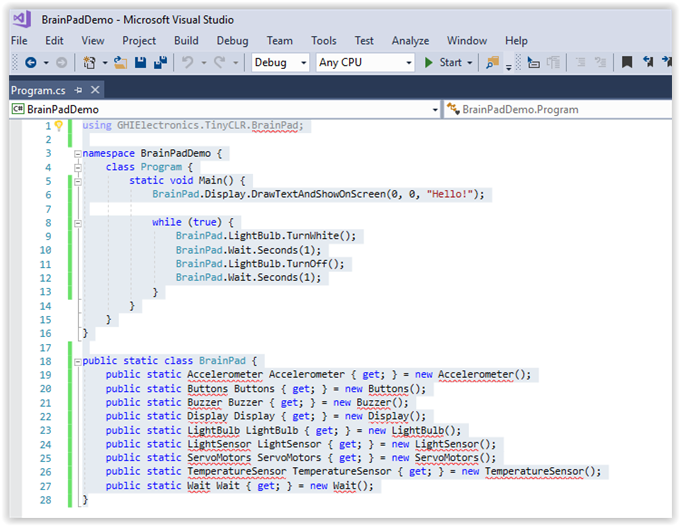
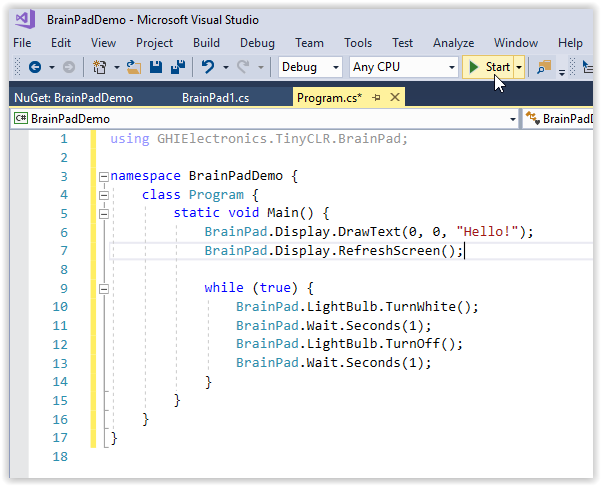
Made changes system setup, intro pages for VB and C#, and servo-motors page.

diff --git a/go-beyond/csharp/intro.md b/go-beyond/csharp/intro.md
@@ -4,6 +4,15 @@ It is not a secret that C and C++ are the most popular programming languages amo
 
 C# is the modern cousin of the C and C++ family. Its syntax is very close to JAVA, another very popular programming language.
 
+## C# Introduction Overview
+The instructions on this page describe how to run your first C# program (a "hello world" program) on the BrainPad. The steps are as follows:
+
+  * [Start a new project](#start-a-new-project).
+  * [Manage the NuGet packages](#manage-the-nuget-packages).
+  * [Add the BrainPad helper code](#add-the-brainpad-helper-code).
+  * [Add the sample program](#add-the-sample-program).
+  * [Deploy the program](#deploy-the-program)
+
 ## Before you start
 You should have already installed Visual Studio on your computer as well as the TinyCLR extension. If not, please start with [System Setup](../system-setup.md) for instructions on how to do so.
 
@@ -36,49 +45,12 @@ Once created, you'll be presented with a `Program.cs` tab.
 
 ![First C# Project](images/introduction/first-project.png)
 
-### Add the Code
-
-In the `Program.cs` tab we will enter short sample program (our "Hello World" code). Cut and paste the following code into the `Program.cs` window.
-```
-using GHIElectronics.TinyCLR.BrainPad;
-
-namespace BrainPadDemo {
-    class Program {
-        static void Main() {
-            BrainPad.Display.DrawTextAndShowOnScreen(0, 0, "Hello!");
-
-            while (true) {
-                BrainPad.LightBulb.TurnWhite();
-                BrainPad.Wait.Seconds(1);
-                BrainPad.LightBulb.TurnOff();
-                BrainPad.Wait.Seconds(1);
-            }
-        }
-    }
-}
-
-public static class BrainPad {
-    public static Accelerometer Accelerometer { get; } = new Accelerometer();
-    public static Buttons Buttons { get; } = new Buttons();
-    public static Buzzer Buzzer { get; } = new Buzzer();
-    public static Display Display { get; } = new Display();
-    public static LightBulb LightBulb { get; } = new LightBulb();
-    public static LightSensor LightSensor { get; } = new LightSensor();
-    public static ServoMotors ServoMotors { get; } = new ServoMotors();
-    public static TemperatureSensor TemperatureSensor { get; } = new TemperatureSensor();
-    public static Wait Wait { get; } = new Wait();
-}
-```
-
-Your `Program.cs` window should look like this:
-![Pasted Code](images/introduction/pasted-code.png)
-
 ### Manage the NuGet Packages
 C# source files are listed in the `Solution Explorer` window. If the `Solution Explorer` window is not visible, click on `View > Solution Explorer` to open it.
 
 ![Solution Explorer](images/introduction/solution-explorer.png)
 
-The squiggly red lines under items in the `Solution Explorer` window and `Program.cs` window indicate errors. In this case the errors are caused by missing Nuget packages. Let's tell Visual Studio to include the Nuget packages and fix that now.
+The squiggly red lines under items in the `Solution Explorer` window indicate errors. In this case the errors are caused by missing Nuget packages. Let's tell Visual Studio to include the Nuget packages and fix that now.
 
 If you right click on the project name in the Solution Explorer window a drop down menu will appear. Select `Manage NuGet Packages...` from the menu.
 
@@ -90,11 +62,11 @@ Now you should see the installed TinyCLR NuGet library (GHIElectronics.TinyCLR.C
 
 Click on `Browse`. You should see a list of available Nuget packages in your local feed.
 
-![Browse Nuget Packages](images/introduction/browse-nuget-packages.png)
+![Browse Nuget Packages](../vb/images/introduction/browse-nuget-packages.jpg)
 
 Click on the `GHIElectronics.TinyCLR.BrainPad` package and then click on the `Install` button.
 
-![Click Install Button](images/introduction/click-install-button.png)
+![Click Install Button](../vb/images/introduction/click-install-button.png)
 
 Installing the BrainPad Nuget package will automatically install the `GHIElectronics.TinyCLR.Devices` and `GHIElectronics.TinyCLR.Pins` packages as well. Click on `OK`.
 
@@ -106,17 +78,47 @@ Now accept the license agreement to install the packages.
 
 Close the `NuGet...` tab to get back to your `Program.cs` window. The red squiggles should now be gone.
 
-![No Red Squiggles](images/introduction/no-red-squiggles.png)
+### Add the BrainPad Helper Code
+
+The BrainPad Helper code provides needed definitions for some BrainPad objects. To add this file to your program, select `Add New Item...` in the `Project` menu. Then in the `Add New Item` dialog box click on `BrainPad Helper` and then click on the `Add` button. You will see a tab labeled `BrainPad1.cs` with contents as shown below.
+
+![BrainPad Helper](images/introduction/brainpad-helper.jpg)
+
+### Add the Sample Program
+
+In the `Program.cs` tab we will enter short sample program (our "Hello World" code). Cut and paste the following code into the `Program.cs` window.
+```
+using GHIElectronics.TinyCLR.BrainPad;
+
+namespace BrainPadDemo {
+    class Program {
+        static void Main() {
+            BrainPad.Display.DrawText(0, 0, "Hello!");
+            BrainPad.Display.RefreshScreen();
+
+            while (true) {
+                BrainPad.LightBulb.TurnWhite();
+                BrainPad.Wait.Seconds(1);
+                BrainPad.LightBulb.TurnOff();
+                BrainPad.Wait.Seconds(1);
+            }
+        }
+    }
+}
+```
+
+Your `Program.cs` window should look like this:
+![Pasted Code](images/introduction/pasted-code.png)
 
 ### Deploy the Program
 Make sure your BrainPad is plugged into the computer's USB port. Now hit the start button as shown in the above image (or hit the `F5` key). If you've done everything correctly the program will compile and deploy to your device. The message "Hello World!" should appear on the BrainPad display, and the light bulb should start blinking.
 
 Congratulations! You're on your way to learning advanced programming on the BrainPad!
 
-What happened exactly? Our application began by running the `BrainPad.Display.DrawTextAndShowOnScreen(0, 0, "Hello!")` line to instruct the display to show the text "Hello!"
+What happened exactly? Our application began by running the `BrainPad.Display.DrawText(0, 0, "Hello!")` and `BrainPad.Display.RefreshScreen()` lines to instruct the display to show the text "Hello!"
 
-The line `BrainPad.Display.DrawTextAndShowOnScreen(0, 0, "Hello!")` is known as a function call. The name of the function is "DrawTextAndShowOnScreen()." This function is part of the "Display" object, which is part of the "BrainPad" object.
+The line `BrainPad.Display.DrawText(0, 0, "Hello!")` is known as a function call. The name of the function is "DrawText()." This function is part of the "Display" object, which is part of the "BrainPad" object.
 
 The items listed in parenthesis (0, 0, "Hello!") are called the arguments of the function. In this case the first zero tells the BrainPad to display the text at the left side of the BrainPad display. If this number is increased the text will appear farther to the right on the screen. The second zero tells the BrainPad to print the text at the top of the display. If this number is increased the text will be printed lower on the screen. The third arugument, "Hello!," tells the BrainPad what text to display on the screen.
 
-After `BrainPadSetup()` is finished, the `While True` loop starts running. Code placed inside this while loop is executed in an infinite loop. This is why the LED keeps blinking and never stops.
+After the display lines are finished, the `While True` loop starts running. Code placed inside this while loop is executed in an infinite loop. This is why the LED keeps blinking and never stops.

diff --git a/go-beyond/vb/intro.md b/go-beyond/vb/intro.md
@@ -6,9 +6,9 @@ Visual Basic is a very popular Microsoft .NET programming language. While being 
 The instructions on this page describe how to run your first Visual Basic program (a "hello world" program) on the BrainPad. The steps are as follows:
 
   * [Start a new project](#start-a-new-project).
-  * [Add the BrainPad helper code](#add-the-brainpad-helper-code).
   * [Manage the NuGet packages](#manage-the-nuget-packages).
-  * [Add the code](#add-the-code).
+  * [Add the BrainPad helper code](#add-the-brainpad-helper-code).
+  * [Add the sample program](#add-the-sample-program).
   * [Deploy the program](#deploy-the-program)
 
 ## Before you start
@@ -42,18 +42,12 @@ Once created, you'll be presented with a `Module1.vb` tab.
 
 ![First Project](images/introduction/first-project.png)
 
-### Add the BrainPad Helper Code
-
-The BrainPad Helper code provides needed definitions for some BrainPad objects. To add this file to your program, select `Add New Item...` in the `Project` menu. Then in the `Add New Item` dialog box click on `BrainPad Helper` and then click on the `Add` button. You will see a tab labeled `BrainPad1.vb` with contents as shown below.
-
-![BrainPad Helper](images/introduction/brainpad-helper.jpg)
-
 ### Manage the NuGet Packages
 Visual Basic source files are listed in the `Solution Explorer` window. If the `Solution Explorer` window is not visible, click on `View > Solution Explorer` to open it.
 
 ![Solution Explorer](images/introduction/solution-explorer.png)
 
-The squiggly red lines under items in the `Solution Explorer` and `BrainPad1.vb` windows indicate errors. In this case the errors are caused by missing Nuget packages. Let's tell Visual Studio to include the Nuget packages and fix that now.
+The squiggly red lines under items in the `Solution Explorer` window indicate errors. In this case the errors are caused by missing Nuget packages. Let's tell Visual Studio to include the Nuget packages and fix that now.
 
 If you right click on the project name in the Solution Explorer window a drop down menu will appear. Select `Manage NuGet Packages...` from the menu.
 
@@ -81,7 +75,13 @@ Now accept the license agreement to install the packages.
 
 Close the `NuGet...` tab to get back to your `BrainPad1.vb` window. The red squiggles should now be gone.
 
-### Add the Code  
+### Add the BrainPad Helper Code
+
+The BrainPad Helper code provides needed definitions for some BrainPad objects. To add this file to your program, select `Add New Item...` in the `Project` menu. Then in the `Add New Item` dialog box click on `BrainPad Helper` and then click on the `Add` button. You will see a tab labeled `BrainPad1.vb` with contents as shown below.
+
+![BrainPad Helper](images/introduction/brainpad-helper.jpg)
+
+### Add the Sample Program  
 In the `Module1.vb` tab we will enter short sample program (our "Hello World" code). Cut and paste the following code into the `Module1.vb` window.
 
 ```
@@ -105,6 +105,8 @@ End Module
 Your `Module1.vb` window should look like this:
 ![Pasted Code](images/introduction/pasted-code.png)
 
+
+
 ### Deploy the Program
 Make sure your BrainPad is plugged into the computer's USB port. Now hit the start button as shown in the above image (or hit the `F5` key). If you've done everything correctly the program will compile and deploy to your device. The message "Hello World!" should appear on the BrainPad display, and the light bulb should start blinking.
 
@@ -116,4 +118,4 @@ The line `BrainPad.Display.DrawText(0, 0, "Hello!")` is known as a function call
 
 The items listed in parenthesis (0, 0, "Hello!") are called the arguments of the function. In this case the first zero tells the BrainPad to display the text at the left side of the BrainPad display. If this number is increased the text will appear farther to the right on the screen. The second zero tells the BrainPad to print the text at the top of the display. If this number is increased the text will be printed lower on the screen. The third arugument, "Hello!," tells the BrainPad what text to display on the screen.
 
-After `BrainPadSetup()` is finished, the `While True` loop starts running. Code placed inside this while loop is executed in an infinite loop. This is why the LED keeps blinking and never stops.
+After display lines are finished, the `While True` loop starts running. Code placed inside this while loop is executed in an infinite loop. This is why the LED keeps blinking and never stops.

diff --git a/go-beyond/components/servo-motors.md b/go-beyond/components/servo-motors.md
@@ -4,12 +4,24 @@ The BrainPad has built in support for two servo motors. These can be either cont
 
 Positional servo motors only accept position commands. Positional servo motors only rotate part way through a revolution, usually turning up to half of a revolution (180 degrees). While you can tell a servo motor to go to a specific position, you have no control over how fast it will get there. The positional servo motor will move to a given position as quickly as possible, but it's speed depends on how much load is put on the motor.
 
-* `BrainPad.ServoMotors.ConfigureAsContinuous(bool inverted)` 
+* `BrainPad.ServoMotors.ServoOne.ConfigureAsContinuous(bool inverted)`
 
-* `BrainPad.ServoMotors.ConfigureAsPositional(bool inverted)`
+* `BrainPad.ServoMotors.ServoTwo.ConfigureAsContinuous(bool inverted)` 
 
-* `BrainPad.ServoMotors.ConfigurePulseParameters(double minimumPulseWidth, double maximumPulseWidth)` 
+* `BrainPad.ServoMotors.ServoOne.ConfigureAsPositional(bool inverted)`
 
-* `BrainPad.ServoMotors.Set(double value)`
+* `BrainPad.ServoMotors.ServoTwo.ConfigureAsPositional(bool inverted)`
 
-* `BrainPad.ServoMotors.Stop()`
+* `BrainPad.ServoMotors.ServoOne.ConfigurePulseParameters(double minimumPulseWidth, double maximumPulseWidth)`
+
+* `BrainPad.ServoMotors.ServoTwo.ConfigurePulseParameters(double minimumPulseWidth, double maximumPulseWidth)`
+
+* `BrainPad.ServoMotors.ServoOne.Set(double value)`
+
+* `BrainPad.ServoMotors.ServoTwo.Set(double value)`
+
+* `BrainPad.ServoMotors.ServoOne.Stop()`
+
+* `BrainPad.ServoMotors.ServoTwo.Stop()`
+
+* `BrainPad.ServoMotors.Servo{*One* or *Two*}.Stop()`

diff --git a/go-beyond/system-setup.md b/go-beyond/system-setup.md
@@ -37,7 +37,10 @@ After installation is complete, click on the `Launch` button. You will be asked 
 
 If Visual Studio is open, close it before continuing with the TinyCLR installation.
 
-Download the [TinyCLR Visual Studio Project System](http://files.ghielectronics.com/downloads/TinyCLR/Extensions/TinyCLR%20OS%20Project%20System%20v0.10.0.vsix). After the download is complete, click on the up arrow next to the download name at the bottom of the screen as shown below.
+Download the [TinyCLR Visual Studio Project System](../resources/downloads.md#visual-studio-project-system) from our [Downloads](../resources/downloads.md) page.
+![Download Visual Studio Project System](images/download-vs-project-system.png)
+
+After the download is complete, click on the up arrow next to the download name at the bottom of the screen as shown below.
 
 ![Install VSIX Step 1](images/install-vsix-step1.png)
 
@@ -45,7 +48,6 @@ Then select `Open` from the pop-up menu.
 ![Install VSIX Step 2](images/install-vsix-step2.png)
 
 In the `VSIX Installer` dialog box click the `Install` button.
-
 ![Install VSIX](images/install-vsix.png)
 
 ### Install the TinyCLR Nuget Packages

diff --git a/start-making/projects.md b/start-making/projects.md
@@ -1,7 +1,7 @@
 # Projects
 ---
 > [!Tip]
-> Also see the more advanced [**TinyCLR OS Projects**](..\go-beyond\projects\intro.md)
+> Also see the more advanced [**TinyCLR OS Projects**](../go-beyond/projects/intro.md)
 
 ![MakeCode Screen Image](images/makecode-screen.png)
 
